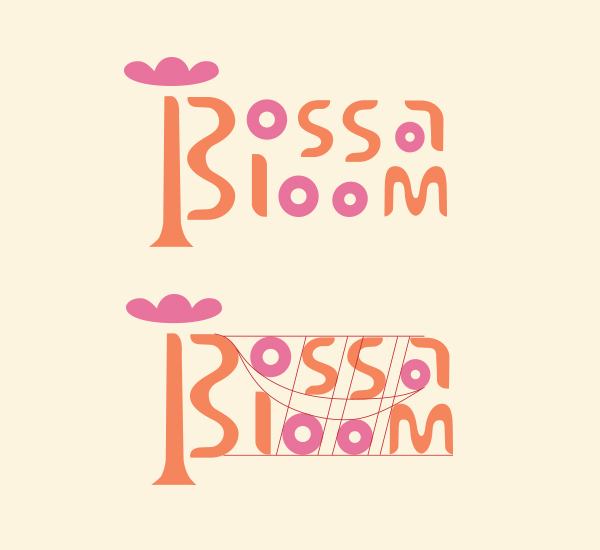
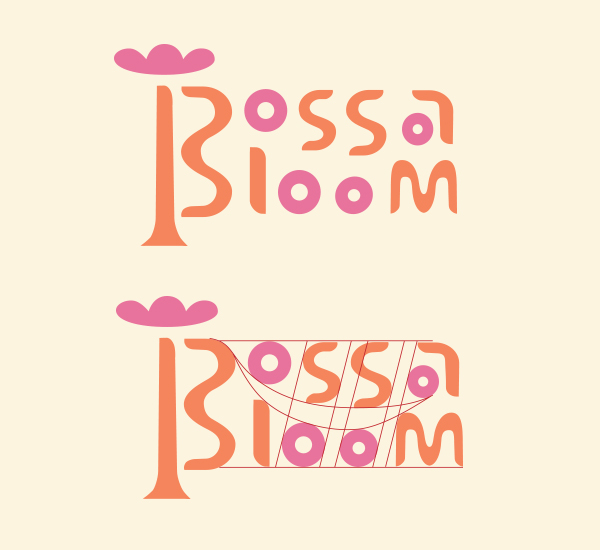
1

Changed region(s): [[0.18, 0.5255, 0.78, 0.9273], [0.18, 0.0618, 0.78, 0.4636]]

diff --git a/project-1.html b/project-1.html
@@ -132,9 +132,22 @@
                     </section>
                     <section class="text">
                         <h2>Logo</h2>
-                        <p>The basic element of the logo design is the wave shape. It has become closely linked with the genre, symbolizing the laid-back, smooth, and rhythmic qualities characteristic of bossa nova music. Additionally, it reflects the influence of Brazil’s coastal lifestyle and the close relationship between bossa nova and the beaches of Rio de Janeiro.</p><br>
-                        <p>The varying sizes of the circles create a sense of rhythm and fluidity in the logo. The open spaces between the letters evoke a relaxed and flowing sensation.</p><br>
-                        <p>I got inspiration for the secondary logo from a trumpet, incorporating the letter ‘B’ and the shape of a flower. The orange color embodies the beach influence inherent in the music genre, while the addition of pink infuses a blooming tint. Furthermore, I integrated purple as a secondary color to represent the jazz impact.</p>
+                        <p>The initial concept for the logo was inspired by the shape of a trumpet, a symbolic instrument in Bossa Nova music. I also wanted to incorporate the word "Bloom". After several attempts, the first draft was chosen, featuring a letter "B" with two dots. A more playful and fluid version replaced the trumpet bell with a flower head, while the two dots remained. However, after digitizing the design, the dots seemed out of place and were excluded in the final version.</p>
+                    </section>
+                    <section class="image-size-1 image-2">
+                        <ul class="is-flex">
+                            <li class="col-6 is-relative">
+                                <div class="img-col proj-1-17 bg-center"></div>
+                            </li>
+                            <li class="col-6 is-relative">
+                                <div class="img-col proj-1-18 bg-center"></div>
+                            </li>
+                        </ul>
+                    </section>
+                    <section class="text">
+                        <p>For the word mark, the main consideration was balancing modernity and fluidity. I experimented with several typefaces, but none suited the heaviness of the words. Simplification was the next step. By removing the repeated "B"s, introducing a negative curve, creating more space between letters, and resizing the letters, I achieved a sense of rhythm and fluidity, evoking a relaxed and flowing sensation.</p><br>
+                        <p>Creating my own typeface for the word mark ensured consistency between the icon and the word mark. The wave shape became the basic element of the logo design. This shape is closely linked with the genre, symbolizing the laid-back, smooth, and rhythmic qualities characteristic of Bossa Nova music. Additionally, it reflects Brazil’s coastal lifestyle and the connection between Bossa Nova and the beaches of Rio de Janeiro. The design retained the character of larger widths for peaks and valleys. The terminals of the letters were sharp and half-rounded, maintaining the conciseness and elegance of the design. A notable feature is the stem of the letter "B." To prevent it from tipping, the bottom is wider and includes a sharp serif to balance the weight of the petal.</p><br>
+                        <p>For the color palette, I aimed to highlight the delightful, relaxing, and intimate mood of the music festival. I chose a low-contrast, highly transparent, warm dichromatic color scheme. The orange color embodies the beach influence inherent in the music genre, while the addition of pink infuses a blooming tint. Furthermore, I integrated purple as a secondary color to represent the jazz influence and beige as an accent color.</p>
                     </section>
                     <section class="image-size-1 image-3">
                         <ul class="is-flex">
@@ -151,7 +164,7 @@
                     </section>
                     <section class="text">
                         <h2>Working With Colors</h2>
-                        <p>The logo is most effective when paired with a complementary background color or one that is either extremely light or dark. If the background color closely matches the logo color, it's best to opt for a white version.</p>
+                        <p>The logo is most effective when paired with a complementary background color or one that is either extremely light or dark. If the background color closely matches the logo color, it's best to use a white version. When a complementary background is not present, the white version is also recommended, as the low contrast can make the logo less legible.</p>
                     </section>
                     <section class="image-size-1 image-2">
                         <ul class="is-flex">
@@ -205,6 +218,11 @@
                                 <div class="img-col proj-1-14 bg-center"></div>
                             </li>
                         </ul>
+                    </section>
+                    <section class="text">
+                        <h2>Summary</h2>
+                        <p>The vibe was crucial for a music festival. My goal was to simultaneously showcase the characteristics of the music genre and the festival atmosphere. It was essential to delve deeply into the genre, identifying its symbols and accurately defining the brand through logo design. This project allowed me to comprehensively practice visual elements such as lines, negative spaces, colors, and textures.</p><br>
+                        <p>There is still room for improvement in some details. To better showcase the illustration and information, I placed the barcode on the back of the ticket. While this may result in higher costs, there could be more practical solutions in real life.</p>
                     </section>
                 </main>
                 <footer>

diff --git a/styles/main.css b/styles/main.css
@@ -790,6 +790,14 @@ Project 1
     background-image: url(../images/proj-1/proj-1-16.jpg);
 }
 
+.proj-1-17 {
+    background-image: url(../images/proj-1/proj-1-17.jpg);
+}
+
+.proj-1-18 {
+    background-image: url(../images/proj-1/proj-1-18.jpg);
+}
+
 /*------------------------------------------------
 Project 2
 -----------------------------------------------*/
